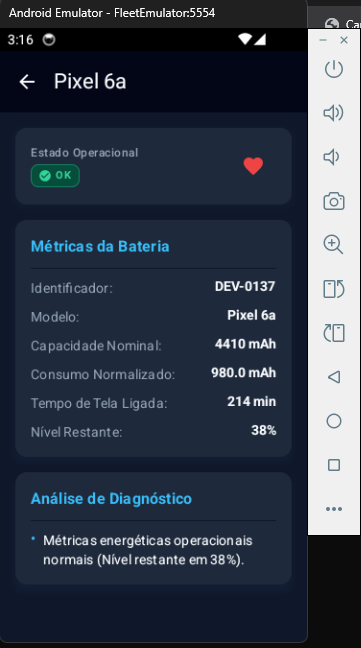
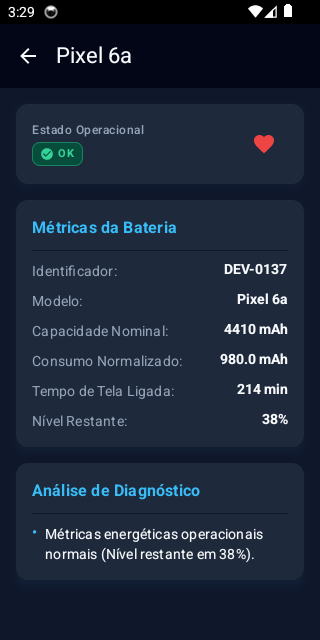
docs(readme): added better screenshots and formatted readme.md

diff --git a/README.md b/README.md
@@ -57,10 +57,10 @@ app/src/main/java/com/example/fleetapp/
     ├── FleetViewModel.kt    # Gerenciamento de Estado UI (StateFlow)
     └── FleetScreens.kt      # Composables Material 3 & Design Dark Blue
     └── FleetViewModelFactory.kt      # Factory para ViewModel
-
+```
 ## Execução de Testes
 
-```bash
+``` bash
 # No Windows
 .\gradlew.bat testDebugUnitTest
 
@@ -92,18 +92,3 @@ app/src/main/java/com/example/fleetapp/
 2. Atualização em Tempo Real: Conectar a camada de dados a uma API de WebSockets/gRPC para streaming de dados telemáticos contínuos dos dispositivos.
 
 3. Testes de UI Automatizados: Implementar suíte de testes de tela com ComposeTestRule em src/androidTest/ para simular cliques nos filtros e navegação de telas.
-
-
-##  Discriminação do Uso de IA
-
-O desenvolvimento deste projeto contou com a colaboração continuada do assistente de Inteligência Artificial (**Gemini / Google AI**). A atuação esteve estruturada da seguinte forma:
-
-| Etapa do Projeto | Atuação da IA | Escopo e Contribuição Específica | Validação Humana / Supervisão |
-| :--- | :--- | :--- | :--- |
-| **1. Arquitetura & Domínio** | Estruturação de pacotes segundo a Arquitetura Hexagonal (Clean Architecture) e garantia da pureza da camada `domain` (zero dependências do SDK Android). | Verificação manual da ausência de `import android.*` no pacote de domínio. |
-| **2. Tratamento de Defeitos** | Modelagem da conversão de unidades ($mWh \to mAh$) e implementação do *fallback* seguro para registros de bateria incompletos/zerados sem geração de `NaN`. | Validação das fórmulas de conversão e das justificativas textuais emitidas. |
-| **3. Testes Unitários (JVM)** | Criação de casos de teste em `DeviceClassifierTest` cobrindo fronteiras exatas ($14\%, 15\%, 30\%, 31\%$) e mocks com `UnconfinedTestDispatcher` em `FleetViewModelTest`. |
-| **4. Interface & Design System** | Redesign da UI com Jetpack Compose Material 3 (Dark Blue, `ElevatedCard`, `LinearProgressIndicator`, badges de status e sombras dinâmicas)
-| **5. Segurança (Trilha B)** | Escrita do script `scripts/security_check.sh` em Shell Script para auditoria estática do Manifest e detecção de vazamento de IDs em logs com suporte a `// sec-ignore`. | Teste prático de falso positivo provocando falha proposital no pipeline e aplicando a supressão inline. |
-| **6. CI/CD (GitHub Actions)** | Criação do workflow `.github/workflows/ci.yml`, depuração do isolamento da pasta `fleet-app/` (`working-directory`) e atualização para ações v5. | Inspeção dos logs de execução no GitHub Actions até obter a esteira 100% verde. |
-| **7. Documentação Técnica** | Redação & Estruturação | Apresentação e formatação do `PROTOCOLO.md` e do `README.md` com instruções de execução, decisões arquiteturais e limitações de validade. 
